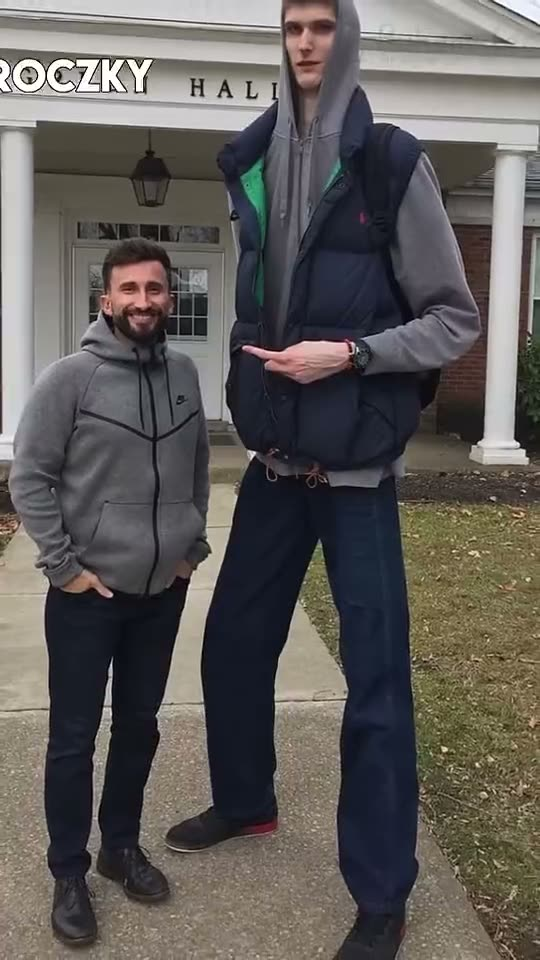
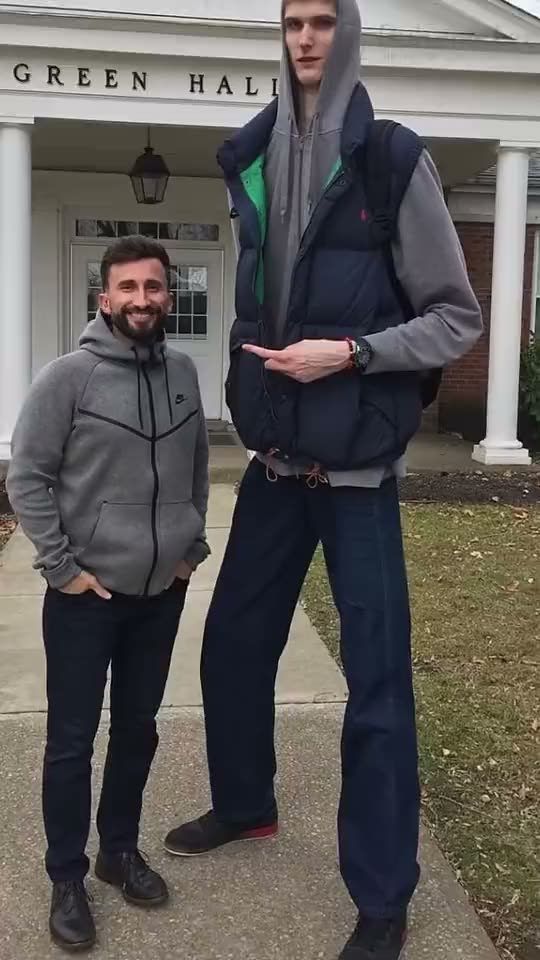
kapaklar 0. kareden, yerel kapak yolu (kelime v88)

diff --git a/www/akis-kendi.js b/www/akis-kendi.js
@@ -190,7 +190,7 @@ export function kendiAkis(kap, { dizin, ekle, girisli, girisGerekli, videolar: h
   liste.innerHTML = videolar.map((v) => `
     <article class="kv-kart" data-id="${v.id}">
       <div class="kv-sahne">
-        <img class="kv-kapak" src="${e(gomulu(v) ? v.kapak : mutlak(v.kapak))}" alt="" decoding="async" draggable="false">
+        <img class="kv-kapak" ${VV && !gomulu(v) ? '' : `src="${e(gomulu(v) ? v.kapak : mutlak(v.kapak))}"`} alt="" decoding="async" draggable="false">
         <video class="kv-vid" playsinline webkit-playsinline muted loop preload="none" disablepictureinpicture></video>
         <div class="kv-tani" aria-hidden="true"></div>
         <div class="kv-tap"></div>
@@ -250,7 +250,13 @@ export function kendiAkis(kap, { dizin, ekle, girisli, girisGerekli, videolar: h
   }
   const nativSrc = (v) => (gomulu(v) ? v.mp4 : mutlak(v.mp4));
   function komsulariHazirla(i) {
-    if (VV) { for (const n of [i + 1, i + 2, i + 3]) if (videolar[n]) { VV.onceden({ src: nativSrc(videolar[n]) }).catch(() => {}); altyaziAl(videolar[n].id); } return; }   // yerel oynatıcı: sıradaki 3 video önden hazırlanır; sunucudakiler telefona kalıcı iner (disk önbelleği, sonraki açılışta hazır)
+    if (VV) {
+      // yerel oynatıcıda sunucu kapağı <img src=https> ile çözülemiyor (ölçüldü) ve src yokken "?" çıkmaz: kapağı yerel taraf indirir (diskte varsa anında), dosya adresiyle gösterilir
+      for (const n of [i, i + 1, i + 2, i + 3]) {
+        const vk = videolar[n], im = vk && kart(n)?.querySelector('.kv-kapak');
+        if (im && !gomulu(vk) && !im.getAttribute('src') && !im.dataset.kapakIstendi) { im.dataset.kapakIstendi = '1'; VV.kapakAl({ src: mutlak(vk.kapak) }).then((r) => { im.src = window.Capacitor.convertFileSrc('file://' + r.yol); }).catch(() => { delete im.dataset.kapakIstendi; }); }
+      }
+      for (const n of [i + 1, i + 2, i + 3]) if (videolar[n]) { VV.onceden({ src: nativSrc(videolar[n]) }).catch(() => {}); altyaziAl(videolar[n].id); } return; }   // yerel oynatıcı: sıradaki 3 video önden hazırlanır; sunucudakiler telefona kalıcı iner (disk önbelleği, sonraki açılışta hazır)
     DEPO.hedefler = () => [videolar[i], videolar[i + 1], videolar[i + 2], videolar[i + 3], videolar[i - 1]];
     for (let j = i; j <= i + 1; j++) { if (!videolar[j]) continue; if (gomulu(videolar[j])) kaynakVer(j, true); else if (DEPO.blob.has(videolar[j].id)) kaynakVer(j); }   // gömülü: paket içi doğrudan adres (bulunamazsa hata yedeği sunucuya geçer); sunucudaki: inmişse blob
     sakla(i);

diff --git a/plugins/voca-video/ios/Sources/VocaVideoPlugin/VocaVideoPlugin.swift b/plugins/voca-video/ios/Sources/VocaVideoPlugin/VocaVideoPlugin.swift
@@ -138,7 +138,7 @@ public class VocaVideoPlugin: CAPPlugin, CAPBridgedPlugin {
     // kapak resmi: web görünümü sunucudan gelen kapağı çözemedi ("Cannot decode", telefonda ölçüldü 2026-10-27) → yerel taraf indirip diske yazar, JS dosya adresiyle gösterir
     private func kapakIndir(_ s: String, tamam: @escaping (URL?) -> Void) {
         guard let k = kimlik(s), let u = URL(string: s) else { tamam(nil); return }
-        let hedef = onbellekKlasoru.appendingPathComponent(k + ".jpg")
+        let hedef = onbellekKlasoru.appendingPathComponent(k + ".k2.jpg")   // k2: kapaklar videonun 0. karesinden yeniden üretildi (eski önbellek geçersiz)
         if FileManager.default.fileExists(atPath: hedef.path) { tamam(hedef); return }
         URLSession.shared.downloadTask(with: u) { tmp, yanit, _ in
             guard let tmp = tmp, (yanit as? HTTPURLResponse)?.statusCode == 200 else { DispatchQueue.main.async { tamam(nil) }; return }
